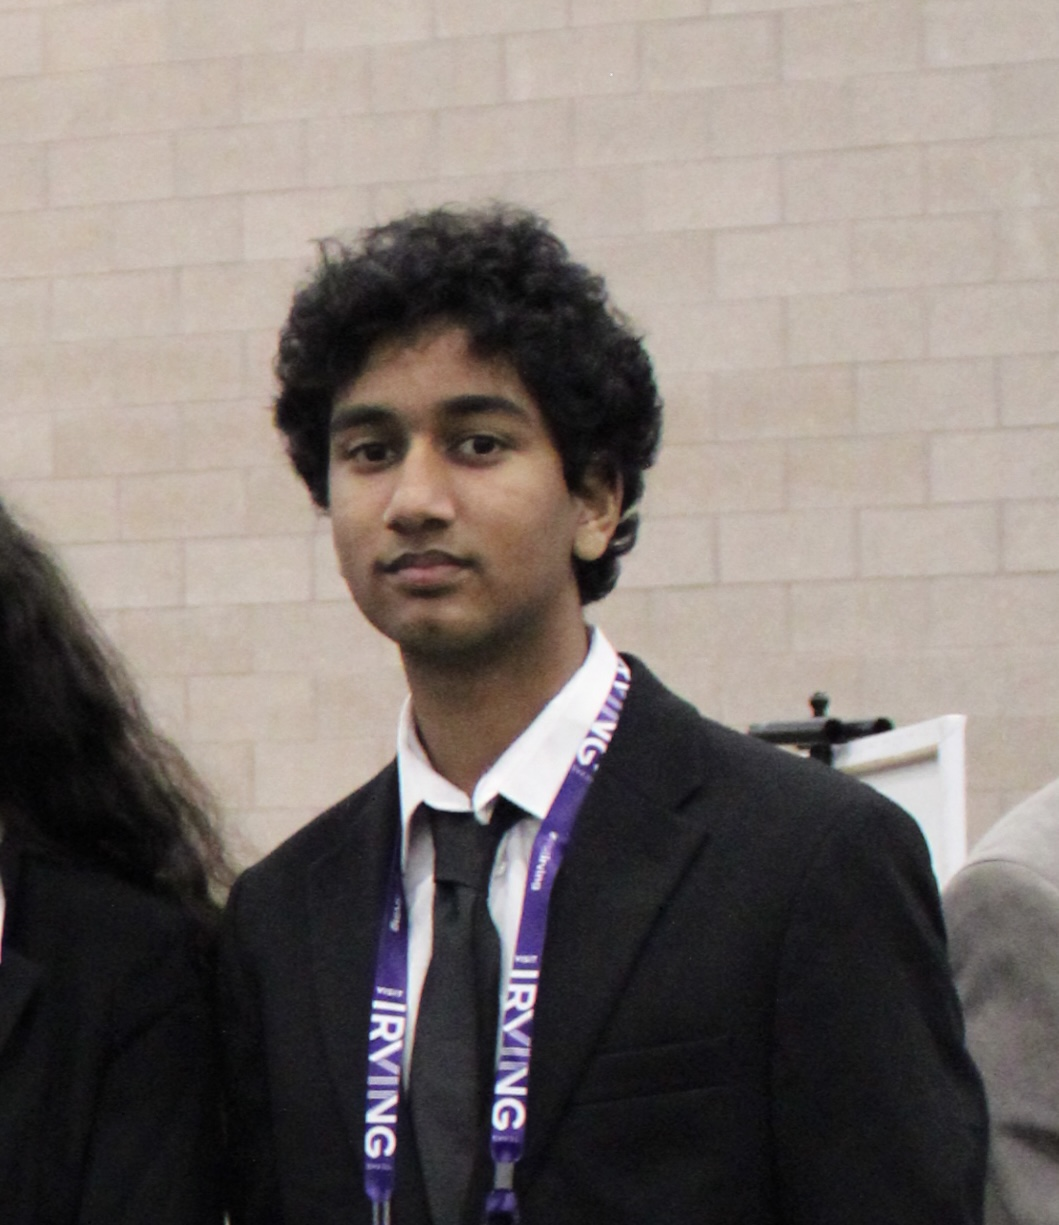
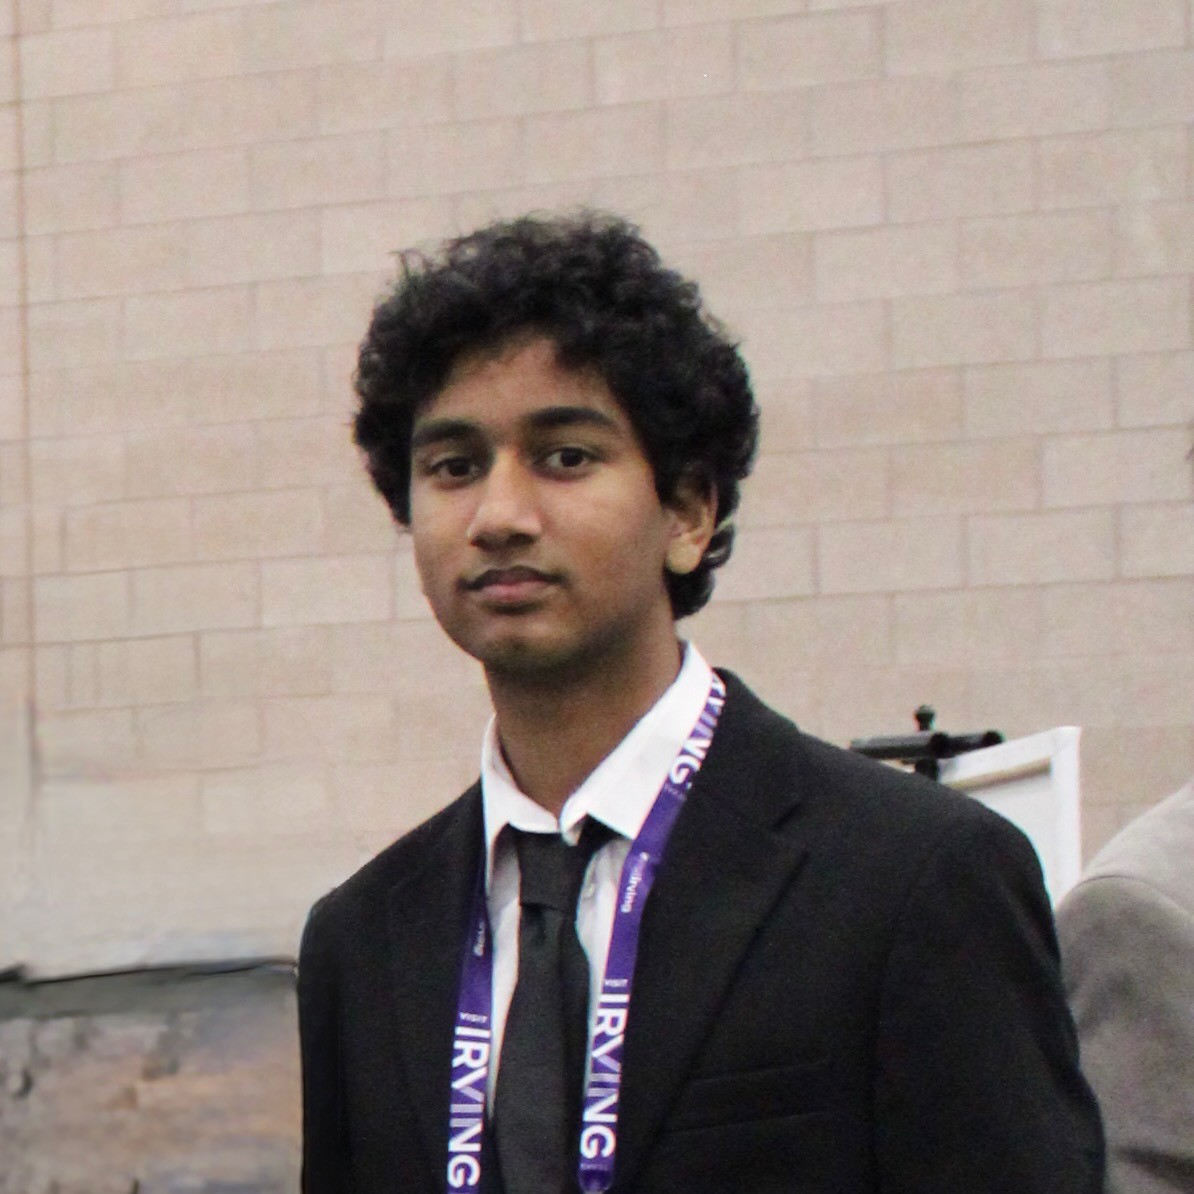
Add Shiven Kulkarni as co-founder, replace Solar Car with Lemons Racing, update nav/hero/sponsors

diff --git a/src/components/sections/LemonsRacing.tsx b/src/components/sections/LemonsRacing.tsx
@@ -1,0 +1,37 @@
+export default function LemonsRacing() {
+  return (
+    <section id="lemons" className="px-6 md:px-10 py-16 md:py-20 border-b border-line bg-bg-alt">
+      <div className="mx-auto max-w-5xl grid md:grid-cols-[1.2fr_1fr] gap-10 md:gap-16">
+        <div>
+          <h2 className="font-display text-3xl md:text-4xl mb-5">
+            24 Hours of Lemons
+          </h2>
+          <p className="text-muted leading-relaxed">
+            X2&rsquo;s third program is an entry into 24 Hours of Lemons,
+            budget endurance racing where the car itself has to cost less
+            than $500. It&rsquo;s the closest thing to full-scale wheel-to-wheel
+            racing on our roadmap, and like everything else we run, it&rsquo;s
+            being built independent of any school or existing program.
+          </p>
+          <p className="mt-4 text-muted leading-relaxed">
+            We&rsquo;re honest about where this stands: no car has been
+            bought or built yet. Right now we&rsquo;re lining up funding and
+            a build team before we source a chassis.
+          </p>
+        </div>
+
+        <div>
+          <p className="text-sm uppercase tracking-wide text-muted mb-4">
+            What we need right now
+          </p>
+          <ul className="space-y-2 text-ink">
+            <li>Founding sponsors to fund the car and entry fees</li>
+            <li>A cheap, race-legal donor car</li>
+            <li>Wrenches, safety gear, and prep experience</li>
+            <li>Drivers and crew interested in endurance racing</li>
+          </ul>
+        </div>
+      </div>
+    </section>
+  );
+}

diff --git a/src/components/sections/Sponsors.tsx b/src/components/sections/Sponsors.tsx
@@ -1,12 +1,12 @@
 const TIERS = [
   {
     name: "Friend",
-    amount: "$100+",
+    amount: "$250+",
     benefits: ["Listed on this site as a sponsor"],
   },
   {
     name: "Team Sponsor",
-    amount: "$500+",
+    amount: "$1,000+",
     benefits: [
       "Everything in Friend",
       "Logo on this site and a shoutout across our socials",
@@ -15,12 +15,12 @@ const TIERS = [
   },
   {
     name: "Title Sponsor",
-    amount: "$1,500+",
+    amount: "$2,500+",
     benefits: [
       "Everything in Team Sponsor",
       "Top billing on this site",
       "Direct input on how sponsorship funds are used",
-      "First look at solar car program updates",
+      "First look at Lemons build updates",
     ],
   },
 ];
@@ -34,7 +34,7 @@ export default function Sponsors() {
         </h2>
         <p className="max-w-2xl text-muted leading-relaxed">
           You&rsquo;d be backing a team early, before the sim racing audience
-          is large and before the solar car exists. Lower cost now, higher
+          is large and before the Lemons car exists. Lower cost now, higher
           visibility as we grow, and a direct hand in getting an independent
           motorsports program off the ground. X2 isn&rsquo;t a registered
           nonprofit, so sponsorships aren&rsquo;t tax-deductible. This is

diff --git a/src/components/sections/Team.tsx b/src/components/sections/Team.tsx
@@ -11,6 +11,11 @@ const FOUNDERS = [
     role: "Co-Founder",
     photo: "/team/vedakshay-kapa.jpg",
   },
+  {
+    name: "Shiven Kulkarni",
+    role: "Co-Founder",
+    photo: "/team/shiven-kulkarni.jpg",
+  },
 ];
 
 export default function Team() {
@@ -22,7 +27,7 @@ export default function Team() {
           X2 started with two people who wanted to race competitively and
           build something bigger than a hobby project, with no school
           program or existing team behind it. Everything here, from the sim
-          rig to the solar car plans, is being built from scratch.
+          rig to the Lemons build, is being built from scratch.
         </p>
 
         <div className="grid sm:grid-cols-2 gap-8 max-w-2xl">

diff --git a/src/app/page.tsx b/src/app/page.tsx
@@ -2,7 +2,7 @@ import Nav from "@/components/Nav";
 import Footer from "@/components/Footer";
 import Hero from "@/components/sections/Hero";
 import SimRacing from "@/components/sections/SimRacing";
-import SolarCar from "@/components/sections/SolarCar";
+import LemonsRacing from "@/components/sections/LemonsRacing";
 import Sponsors from "@/components/sections/Sponsors";
 import Team from "@/components/sections/Team";
 import Contact from "@/components/sections/Contact";
@@ -14,7 +14,7 @@ export default function Home() {
       <main className="flex-1">
         <Hero />
         <SimRacing />
-        <SolarCar />
+        <LemonsRacing />
         <Sponsors />
         <Team />
         <Contact />

diff --git a/src/app/layout.tsx b/src/app/layout.tsx
@@ -15,9 +15,9 @@ const bodyFont = Work_Sans({
   weight: ["400", "500", "600"],
 });
 
-const title = "X2 Motorsports: Sim Racing & Solar Car Challenge";
+const title = "X2 Motorsports: Sim Racing & 24 Hours of Lemons";
 const description =
-  "X2 Motorsports is an independent motorsports team racing RaceRoom competitively today and building a student solar car program for tomorrow.";
+  "X2 Motorsports is an independent motorsports team racing RaceRoom competitively today and building toward a 24 Hours of Lemons endurance entry for tomorrow.";
 
 export const metadata: Metadata = {
   metadataBase: new URL("https://x2motorsportswebsite.vercel.app"),

diff --git a/src/components/sections/SimRacing.tsx b/src/components/sections/SimRacing.tsx
@@ -8,7 +8,7 @@ export default function SimRacing() {
             We compete in RaceRoom Racing Experience, running a full sim rig
             with real telemetry, race craft, and setup work. It&rsquo;s the
             same discipline as full-scale racing, without the fuel bill, and
-            how we build an audience and sharpen the team before the solar
+            how we build an audience and sharpen the team before the Lemons
             car hits the track.
           </p>
         </div>

diff --git a/src/components/sections/Hero.tsx b/src/components/sections/Hero.tsx
@@ -7,7 +7,7 @@ export default function Hero() {
         </h1>
         <p className="mt-6 max-w-xl text-muted leading-relaxed text-lg">
           X2 Motorsports races RaceRoom competitively today, and is building
-          toward a student-built solar car entry. Both run entirely
+          toward a 24 Hours of Lemons endurance car. Both run entirely
           independent, with no institutional backing. Just a team building
           credibility from scratch.
         </p>

diff --git a/src/components/Nav.tsx b/src/components/Nav.tsx
@@ -4,7 +4,7 @@ import { useState } from "react";
 
 const LINKS = [
   { href: "#sim-racing", label: "Sim Racing" },
-  { href: "#solar-car", label: "Solar Car" },
+  { href: "#lemons", label: "Lemons" },
   { href: "#sponsors", label: "Sponsors" },
   { href: "#team", label: "Team" },
   { href: "#contact", label: "Contact" },
